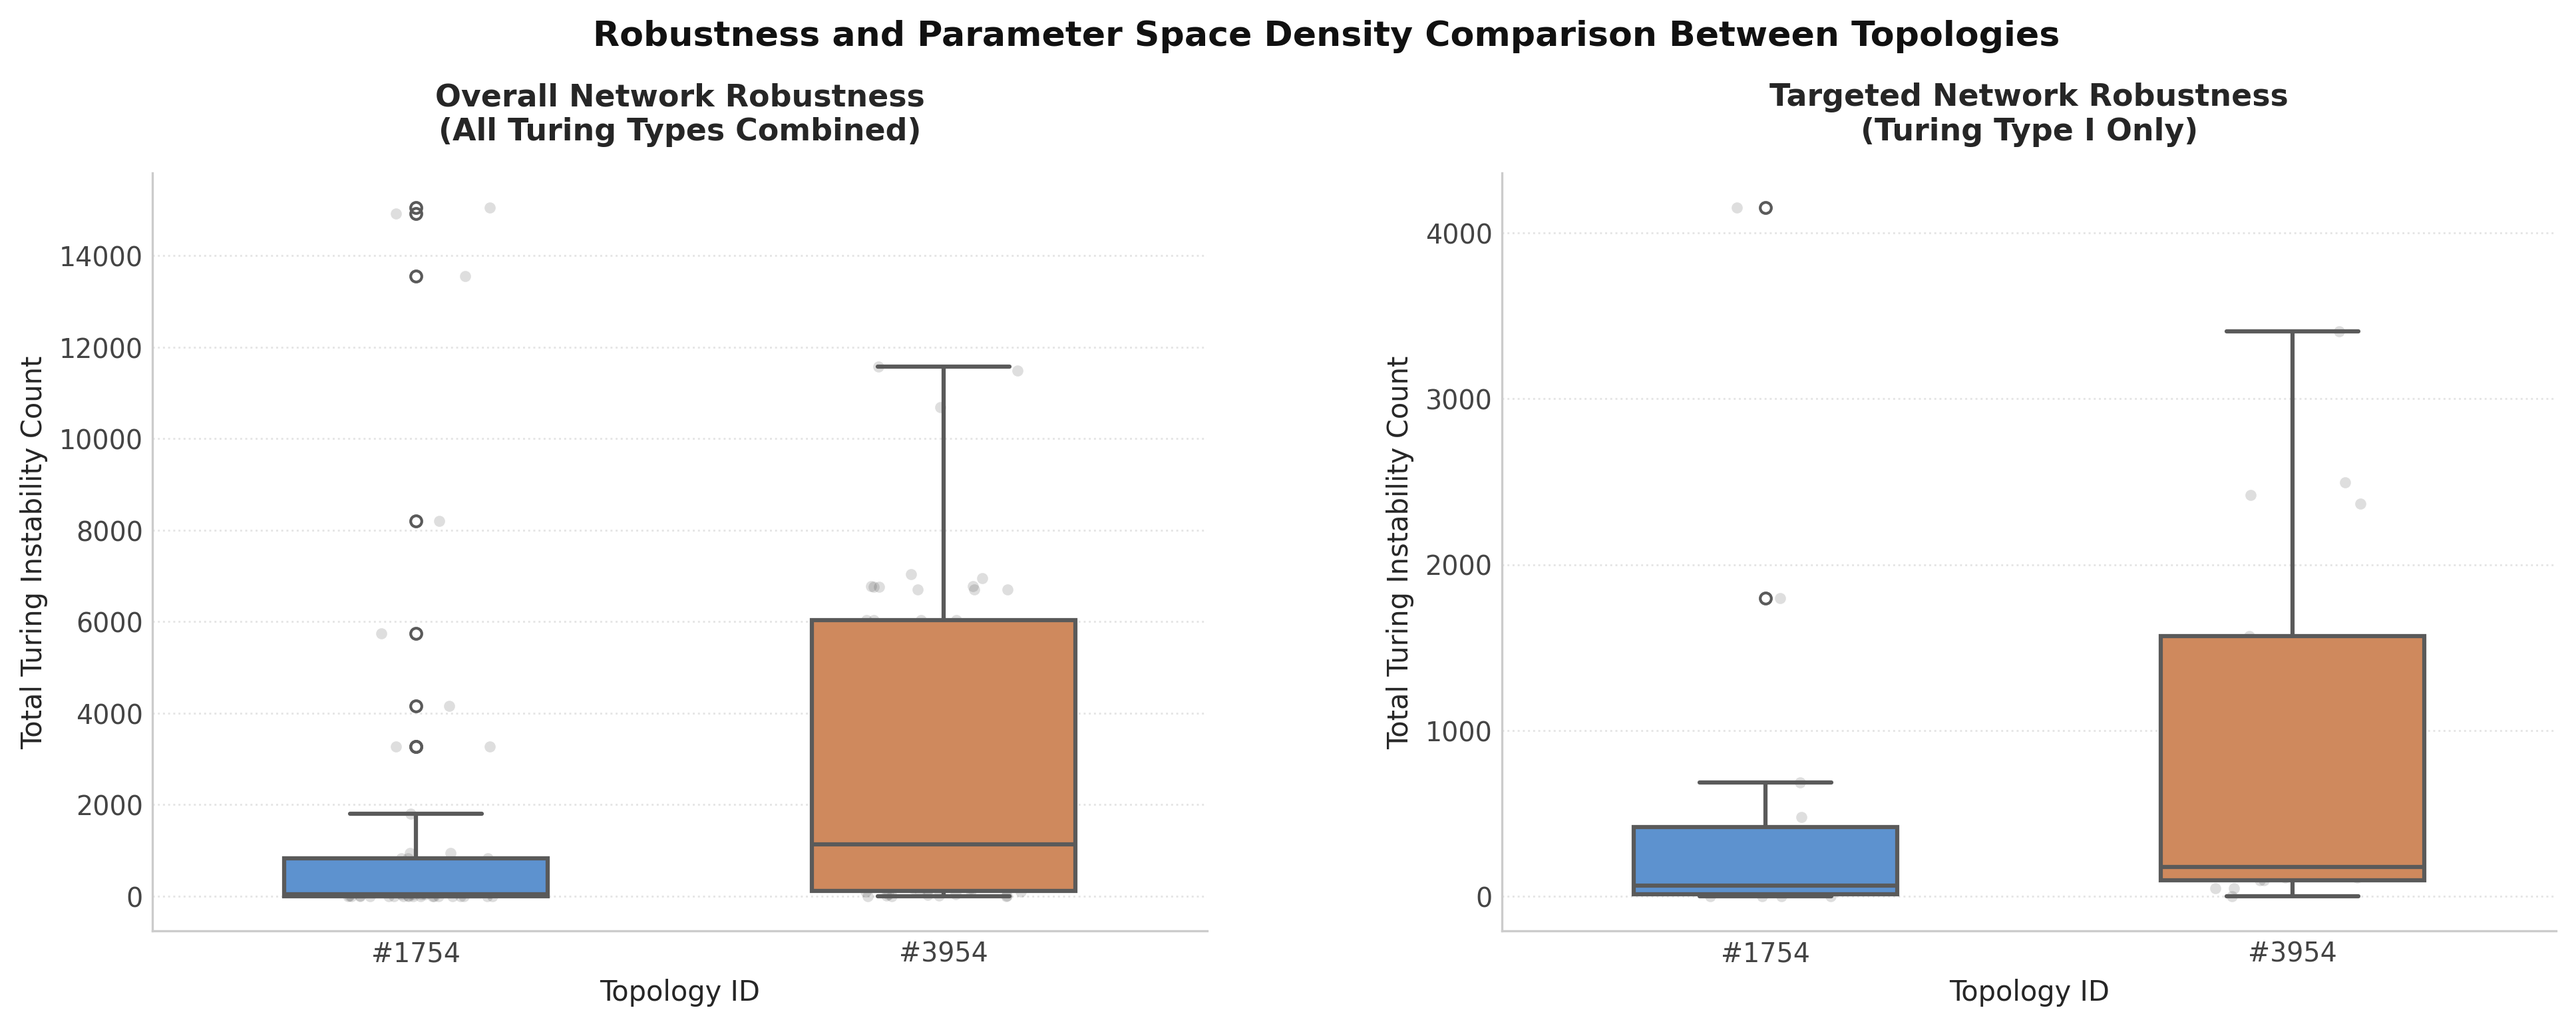
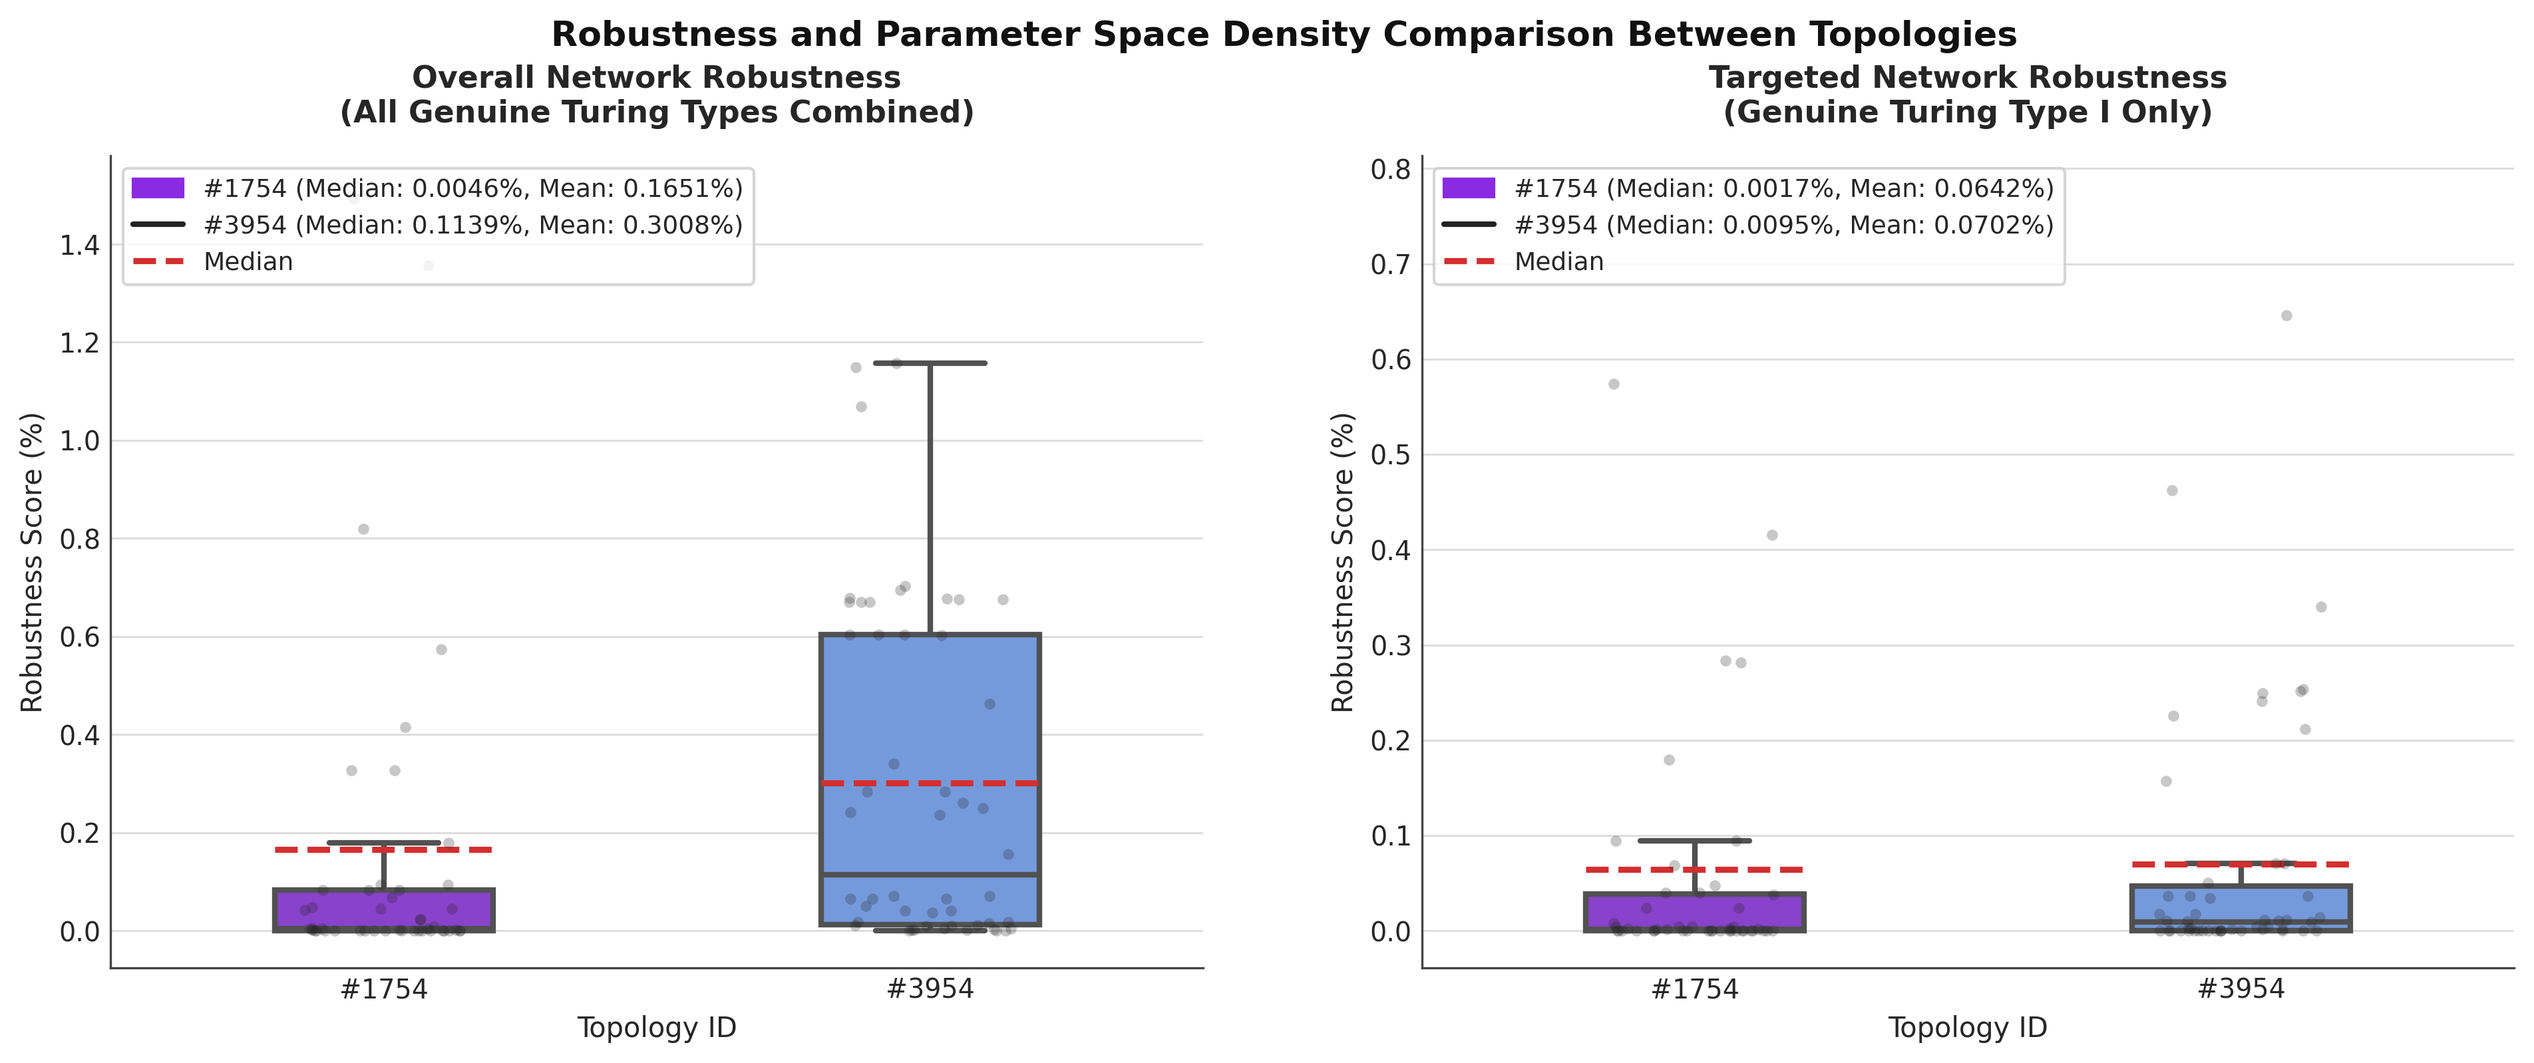
fixing things

diff --git a/TopologyRanking/results-compare-lhs.py b/TopologyRanking/results-compare-lhs.py
@@ -653,7 +653,7 @@ def fig_topology_robustness_comparison(df):
         wspace=0.28
     )
 
-    save(fig, "thesis_topology_robustness_comparison")
+    save(fig, "old_thesis_topology_robustness_comparison")
 
 
 
@@ -890,74 +890,313 @@ def fig_3d_parameter_space_comparison():
 
 
 
-#########
-
-def fig_topology_robustness_comparison(df, use_percentage=False, axis_scale="auto"):
-    """
-    Plots overall robustness vs genuine Turing Type I robustness for topologies #1754 and #3954.
-    """
+#######
+def fig_topology_robustness_comparison(df):
     df = df.copy()
 
     # 1. Filter strictly for your two target topologies
     target_topologies = ["#1754", "#3954"]
     df = df[df["topology_id"].isin(target_topologies)]
     
-    # 2. Establish plot styling and order
     topo_colors = {"#1754": "#4A90E2", "#3954": "#E2844A"}
     topo_order = ["#1754", "#3954"]
 
-    # 3. Handle Scaling Variables (Percentage vs. Decimal Ratio)
-    if use_percentage:
-        df["plot_total"] = df["rob_shaberi_total"] * 100
-        df["plot_type_I"] = df["rob_shaberi_type_I"] * 100
-        unit_label = "(%)"
-    else:
-        df["plot_total"] = df["rob_shaberi_total"]
-        df["plot_type_I"] = df["rob_shaberi_type_I"]
-        unit_label = "(Ratio)"
+    # 2. CRITICAL FIX: The data is already formatted as percentages in your CSV.
+    # No multiplication required.
+    df["plot_total"] = df["rob_shaberi_total"]
+    df["plot_type_I"] = df["rob_shaberi_type_I"]
 
-    # 4. Create the side-by-side layout
     fig, axes = plt.subplots(1, 2, figsize=(14, 5.5))
 
-    # --- LEFT PLOT: Global Overall Robustness (All genuine types combined) ---
+    # --- LEFT PLOT: Global Overall Robustness ---
+    # showmeans=True with meanline=True converts the mean marker into a clean horizontal line
     sns.boxplot(
         data=df, x="topology_id", y="plot_total", 
-        order=topo_order, palette=topo_colors, ax=axes[0], width=0.4
+        order=topo_order, palette=topo_colors, ax=axes[0], 
+        width=0.4, fliersize=0, linewidth=1.5,
+        showmeans=True, meanline=True,
+        meanprops={"linestyle": "--", "linewidth": 1.5, "color": "#D32F2F"}
     )
     sns.stripplot(
         data=df, x="topology_id", y="plot_total",
         order=topo_order, color="#222222", alpha=0.25, size=4, jitter=0.15, ax=axes[0]
     )
     axes[0].set_title("Overall Network Robustness\n(All Genuine Turing Types Combined)", fontsize=11, fontweight="semibold", pad=12)
-    axes[0].set_ylabel(f"Robustness Score {unit_label}", fontsize=10)
+    axes[0].set_ylabel("Robustness Score (%)", fontsize=10)
+
+    # Calculate both Median and Mean for the Left Plot
+    med_total_1754 = df[df["topology_id"] == "#1754"]["plot_total"].median()
+    mean_total_1754 = df[df["topology_id"] == "#1754"]["plot_total"].mean()
+    
+    med_total_3954 = df[df["topology_id"] == "#3954"]["plot_total"].median()
+    mean_total_3954 = df[df["topology_id"] == "#3954"]["plot_total"].mean()
+    
+    text_left = (
+        f"Topology #1754:\n  Median: {med_total_1754:.4f}%\n  Mean (Avg): {mean_total_1754:.4f}%\n\n"
+        f"Topology #3954:\n  Median: {med_total_3954:.4f}%\n  Mean (Avg): {mean_total_3954:.4f}%"
+    )
+    axes[0].text(
+        0.05, 0.95, text_left, transform=axes[0].transAxes, fontsize=9,
+        verticalalignment='top', bbox=dict(boxstyle='round,pad=0.5', facecolor='white', edgecolor='#cccccc', alpha=0.9)
+    )
 
     # --- RIGHT PLOT: Genuine Turing Type I Robustness Only ---
-    # Plots the full distribution of shaberi_type_I across all data rows
     sns.boxplot(
         data=df, x="topology_id", y="plot_type_I",  
-        order=topo_order, palette=topo_colors, ax=axes[1], width=0.4
+        order=topo_order, palette=topo_colors, ax=axes[1], 
+        width=0.4, fliersize=0, linewidth=1.5,
+        showmeans=True, meanline=True,
+        meanprops={"linestyle": "--", "linewidth": 1.5, "color": "#D32F2F"}
     )
     sns.stripplot(
         data=df, x="topology_id", y="plot_type_I",  
         order=topo_order, color="#222222", alpha=0.25, size=4, jitter=0.15, ax=axes[1]
     )
     axes[1].set_title("Targeted Network Robustness\n(Genuine Turing Type I Only)", fontsize=11, fontweight="semibold", pad=12)
-    axes[1].set_ylabel(f"Robustness Score {unit_label}", fontsize=10)
+    axes[1].set_ylabel("Robustness Score (%)", fontsize=10)
 
-    # 5. Clean up axis boundaries
+    # Calculate both Median and Mean for the Right Plot
+    med_typeI_1754 = df[df["topology_id"] == "#1754"]["plot_type_I"].median()
+    mean_typeI_1754 = df[df["topology_id"] == "#1754"]["plot_type_I"].mean()
+    
+    med_typeI_3954 = df[df["topology_id"] == "#3954"]["plot_type_I"].median()
+    mean_typeI_3954 = df[df["topology_id"] == "#3954"]["plot_type_I"].mean()
+    
+    text_right = (
+        f"Topology #1754:\n  Median: {med_typeI_1754:.4f}%\n  Mean (Avg): {mean_typeI_1754:.4f}%\n\n"
+        f"Topology #3954:\n  Median: {med_typeI_3954:.4f}%\n  Mean (Avg): {mean_typeI_3954:.4f}%"
+    )
+    axes[1].text(
+        0.05, 0.95, text_right, transform=axes[1].transAxes, fontsize=9,
+        verticalalignment='top', bbox=dict(boxstyle='round,pad=0.5', facecolor='white', edgecolor='#cccccc', alpha=0.9)
+    )
+
+    # 3. Clean up axis boundaries and labels across panels
     for ax in axes:
         ax.set_xlabel("Topology ID", fontsize=10)
         ax.tick_params(axis="both", which="major", labelsize=9.5)
-        
-        if axis_scale == "full":
-            ax.set_ylim((-5, 105) if use_percentage else (-0.05, 1.05))
-        elif axis_scale == "auto":
-            pass # Zoom tightly around your actual distribution bounds
 
     plt.suptitle("Robustness and Parameter Space Density Comparison Between Topologies", fontsize=12.5, y=0.98, fontweight="semibold")
     fig.subplots_adjust(left=0.08, right=0.94, top=0.84, bottom=0.15, wspace=0.28)
     
-    save(fig, f"thesis_robustness_comparison_{'pct' if use_percentage else 'ratio'}_{axis_scale}")
+    save(fig, "thesis_topology_robustness_comparison_percentage")
+
+
+
+
+
+# def fig_topology_robustness_comparison_final(df):
+#     df = df.copy()
+
+#     # 1. Filter strictly for your two target topologies
+#     target_topologies = ["#1754", "#3954"]
+#     df = df[df["topology_id"].isin(target_topologies)]
+    
+#     topo_colors = {"#1754": "blueviolet", "#3954": "cornflowerblue"}
+#     topo_order = ["#1754", "#3954"]
+
+#     # 2. Assign standard CSV columns to plotting metrics
+#     df["plot_total"] = df["rob_shaberi_total"]
+#     df["plot_type_I"] = df["rob_shaberi_type_I"]
+
+#     fig, axes = plt.subplots(1, 2, figsize=(14, 5.0))
+
+#     # --- CALCULATE METRICS FOR THE LEGEND ---
+#     med_tot_1754 = df[df["topology_id"] == "#1754"]["plot_total"].median()
+#     mean_tot_1754 = df[df["topology_id"] == "#1754"]["plot_total"].mean()
+#     med_tot_3954 = df[df["topology_id"] == "#3954"]["plot_total"].median()
+#     mean_tot_3954 = df[df["topology_id"] == "#3954"]["plot_total"].mean()
+    
+#     med_t1_1754 = df[df["topology_id"] == "#1754"]["plot_type_I"].median()
+#     mean_t1_1754 = df[df["topology_id"] == "#1754"]["plot_type_I"].mean()
+#     med_t1_3954 = df[df["topology_id"] == "#3954"]["plot_type_I"].median()
+#     mean_t1_3954 = df[df["topology_id"] == "#3954"]["plot_type_I"].mean()
+
+#     # --- LEFT PLOT: Global Overall Robustness ---
+#     # FIXED: Explicitly targeting axes[0] for all left-side operations
+#     sns.boxplot(
+#         data=df, x="topology_id", y="plot_total", 
+#         order=topo_order, palette=topo_colors, ax=axes[0], 
+#         width=0.4, fliersize=0, linewidth=2.0,
+#         showmeans=True, meanline=True,
+#         meanprops={"linestyle": "--", "linewidth": 2.2, "color": "#D32F2F"}
+#     )
+#     sns.stripplot(
+#         data=df, x="topology_id", y="plot_total",
+#         order=topo_order, color="#222222", alpha=0.25, size=4, jitter=0.15, ax=axes[0]
+#     )
+#     axes[0].set_title("Overall Network Robustness\n(All Genuine Turing Types Combined)", fontsize=11, fontweight="semibold", pad=12)
+#     axes[0].set_ylabel("Robustness Score (%)", fontsize=10)
+
+#     # --- RIGHT PLOT: Genuine Turing Type I Robustness Only ---
+#     # FIXED: Explicitly targeting axes[1] for all right-side operations
+#     sns.boxplot(
+#         data=df, x="topology_id", y="plot_type_I",  
+#         order=topo_order, palette=topo_colors, ax=axes[1], 
+#         width=0.4, fliersize=0, linewidth=2.0,
+#         showmeans=True, meanline=True,
+#         meanprops={"linestyle": "--", "linewidth": 2.2, "color": "#D32F2F"}
+#     )
+#     sns.stripplot(
+#         data=df, x="topology_id", y="plot_type_I",  
+#         order=topo_order, color="#222222", alpha=0.25, size=4, jitter=0.15, ax=axes[1]
+#     )
+#     axes[1].set_title("Targeted Network Robustness\n(Genuine Turing Type I Only)", fontsize=11, fontweight="semibold", pad=12)
+#     axes[1].set_ylabel("Robustness Score (%)", fontsize=10)
+
+#     # 3. Clean up axis boundaries and labels across both panels
+#     for ax in axes:
+#         ax.set_xlabel("Topology ID", fontsize=10)
+#         ax.tick_params(axis="both", which="major", labelsize=9.5)
+
+#     # 4. Global Main Header (Bold Title, Standard-Weight regular Subtitle)
+#     fig.text(0.5, 0.98, "Robustness and Parameter Space Density Comparison Between Topologies", 
+#              fontsize=12.5, fontweight="semibold", color="#111111", ha="center")
+    
+#     # 5. FIXED LEGEND (4-Column Layout with Explicit Text Labels)
+#     legend_labels = [
+#         f"Topology #1754\nOverall Mean: {mean_tot_1754:.3f}%\nType I Mean: {mean_t1_1754:.3f}%",
+#         f"Topology #3954\nOverall Mean: {mean_tot_3954:.3f}%\nType I Mean: {mean_t1_3954:.3f}%",
+#         f"Statistical Medians\nOverall (#1754 / #3954): {med_tot_1754:.3f}% / {med_tot_3954:.3f}%\nType I (#1754 / #3954): {med_t1_1754:.3f}% / {med_t1_3954:.3f}%",
+#         "",  # Empty spacer label for column alignment
+#         "Topology #1754",
+#         "Topology #3954",
+#         "Median Value",
+#         "Mean (Average) Value"
+#     ]
+    
+#     patch_1754 = mpatches.Patch(color='blueviolet')
+#     patch_3954 = mpatches.Patch(color='cornflowerblue')
+#     line_median = mlines.Line2D([], [], color='#444444', linewidth=2.0)
+#     line_mean = mlines.Line2D([], [], color='#D32F2F', linestyle='--', linewidth=2.2)
+
+#     display_handles = [
+#         patch_1754, patch_3954, line_median, mpatches.Patch(color='none'), 
+#         patch_1754, patch_3954, line_median, line_mean
+#     ]
+
+#     # Places the clean, frame-free legend directly under the subplots
+#     fig.legend(
+#         handles=display_handles,
+#         labels=legend_labels,
+#         loc="upper center",
+#         bbox_to_anchor=(0.5, 0.08), 
+#         ncol=4,
+#         fontsize=9,
+#         frameon=False 
+#     )
+
+#     # 6. Adjust panel space and bottom margin tightly
+#     fig.subplots_adjust(
+#         left=0.08, 
+#         right=0.94, 
+#         top=0.84, 
+#         bottom=0.22,
+#         wspace=0.15
+#     )
+
+#     save(fig, "thesis_topology_robustness_comparison")
+
+
+import matplotlib.pyplot as plt
+import matplotlib.patches as mpatches
+import matplotlib.lines as mlines
+import seaborn as sns
+
+def fig_topology_robustness_comparison_final(df):
+    df = df.copy()
+
+    # 1. Filter strictly for your two target topologies
+    target_topologies = ["#1754", "#3954"]
+    df = df[df["topology_id"].isin(target_topologies)]
+    
+    topo_colors = {"#1754": "blueviolet", "#3954": "cornflowerblue"}
+    topo_order = ["#1754", "#3954"]
+
+    # 2. Assign standard CSV columns to plotting metrics
+    df["plot_total"] = df["rob_shaberi_total"]
+    df["plot_type_I"] = df["rob_shaberi_type_I"]
+
+    fig, axes = plt.subplots(1, 2, figsize=(14, 5.5))
+
+    # --- CALCULATE METRICS ---
+    med_tot_1754 = df[df["topology_id"] == "#1754"]["plot_total"].median()
+    mean_tot_1754 = df[df["topology_id"] == "#1754"]["plot_total"].mean()
+    med_tot_3954 = df[df["topology_id"] == "#3954"]["plot_total"].median()
+    mean_tot_3954 = df[df["topology_id"] == "#3954"]["plot_total"].mean()
+    
+    med_t1_1754 = df[df["topology_id"] == "#1754"]["plot_type_I"].median()
+    mean_t1_1754 = df[df["topology_id"] == "#1754"]["plot_type_I"].mean()
+    med_t1_3954 = df[df["topology_id"] == "#3954"]["plot_type_I"].median()
+    mean_t1_3954 = df[df["topology_id"] == "#3954"]["plot_type_I"].mean()
+
+    # Reusable style elements for the legend keys
+    line_median = mlines.Line2D([], [], color='#222222', linewidth=2.0)
+    line_mean = mlines.Line2D([], [], color='#D32F2F', linestyle='--', linewidth=2.2)
+
+    # --- LEFT PLOT: Global Overall Robustness ---
+    sns.boxplot(
+        data=df, x="topology_id", y="plot_total", 
+        order=topo_order, palette=topo_colors, ax=axes[0], 
+        width=0.4, fliersize=0, linewidth=2.0,
+        showmeans=True, meanline=True,
+        meanprops={"linestyle": "--", "linewidth": 2.2, "color": "#D32F2F"}
+    )
+    sns.stripplot(
+        data=df, x="topology_id", y="plot_total",
+        order=topo_order, color="#222222", alpha=0.25, size=4, jitter=0.15, ax=axes[0]
+    )
+    axes[0].set_title("Overall Network Robustness\n(All Genuine Turing Types Combined)", fontsize=11, fontweight="semibold", pad=12)
+    axes[0].set_ylabel("Robustness Score (%)", fontsize=10)
+
+    # Clean Left Legend (Focusing purely on the data in this subplot)
+    handles_left = [mpatches.Patch(color='blueviolet'), line_median, line_mean]
+    labels_left = [
+        f"#1754 (Median: {med_tot_1754:.4f}%, Mean: {mean_tot_1754:.4f}%)",
+        f"#3954 (Median: {med_tot_3954:.4f}%, Mean: {mean_tot_3954:.4f}%)",
+        "Median",
+        "Mean"
+    ]
+    axes[0].legend(handles=handles_left, labels=labels_left, loc="upper left", fontsize=9, frameon=True)
+
+    # --- RIGHT PLOT: Genuine Turing Type I Robustness Only ---
+    sns.boxplot(
+        data=df, x="topology_id", y="plot_type_I",  
+        order=topo_order, palette=topo_colors, ax=axes[1], 
+        width=0.4, fliersize=0, linewidth=2.0,
+        showmeans=True, meanline=True,
+        meanprops={"linestyle": "--", "linewidth": 2.2, "color": "#D32F2F"}
+    )
+    sns.stripplot(
+        data=df, x="topology_id", y="plot_type_I",  
+        order=topo_order, color="#222222", alpha=0.25, size=4, jitter=0.15, ax=axes[1]
+    )
+    axes[1].set_title("Targeted Network Robustness\n(Genuine Turing Type I Only)", fontsize=11, fontweight="semibold", pad=12)
+    axes[1].set_ylabel("Robustness Score (%)", fontsize=10)
+
+    # Clean Right Legend (Focusing purely on the data in this subplot)
+    handles_right = [mpatches.Patch(color='blueviolet'), line_median, line_mean]
+    labels_right = [
+        f"#1754 (Median: {med_t1_1754:.4f}%, Mean: {mean_t1_1754:.4f}%)",
+        f"#3954 (Median: {med_t1_3954:.4f}%, Mean: {mean_t1_3954:.4f}%)",
+        "Median",
+        "Mean"
+    ]
+    axes[1].legend(handles=handles_right, labels=labels_right, loc="upper left", fontsize=9, frameon=True)
+
+    # 3. Clean up axis boundaries and labels across both panels
+    for ax in axes:
+        ax.set_xlabel("Topology ID", fontsize=10)
+        ax.tick_params(axis="both", which="major", labelsize=9.5)
+
+    # 4. Global Main Header
+    fig.text(0.5, 0.96, "Robustness and Parameter Space Density Comparison Between Topologies", 
+             fontsize=12.5, fontweight="semibold", color="#111111", ha="center")
+
+    # 5. Fine tuning plot limits and spacing to guarantee nothing overlaps
+    fig.subplots_adjust(left=0.08, right=0.94, top=0.86, bottom=0.12, wspace=0.20)
+
+    save(fig, "thesis_topology_robustness_comparison")
 
 
 
@@ -978,4 +1217,5 @@ fig_3d_parameter_space_comparison()
 # Try Option A: Raw ratio format, zoomed in automatically on the tiny values (Highly Recommended)
 
 # Run with auto-scaling to let your distributions expand fully in the frame
-fig_topology_robustness_comparison(df, use_percentage=False, axis_scale="auto")
+fig_topology_robustness_comparison(df)
+fig_topology_robustness_comparison_final(df)
